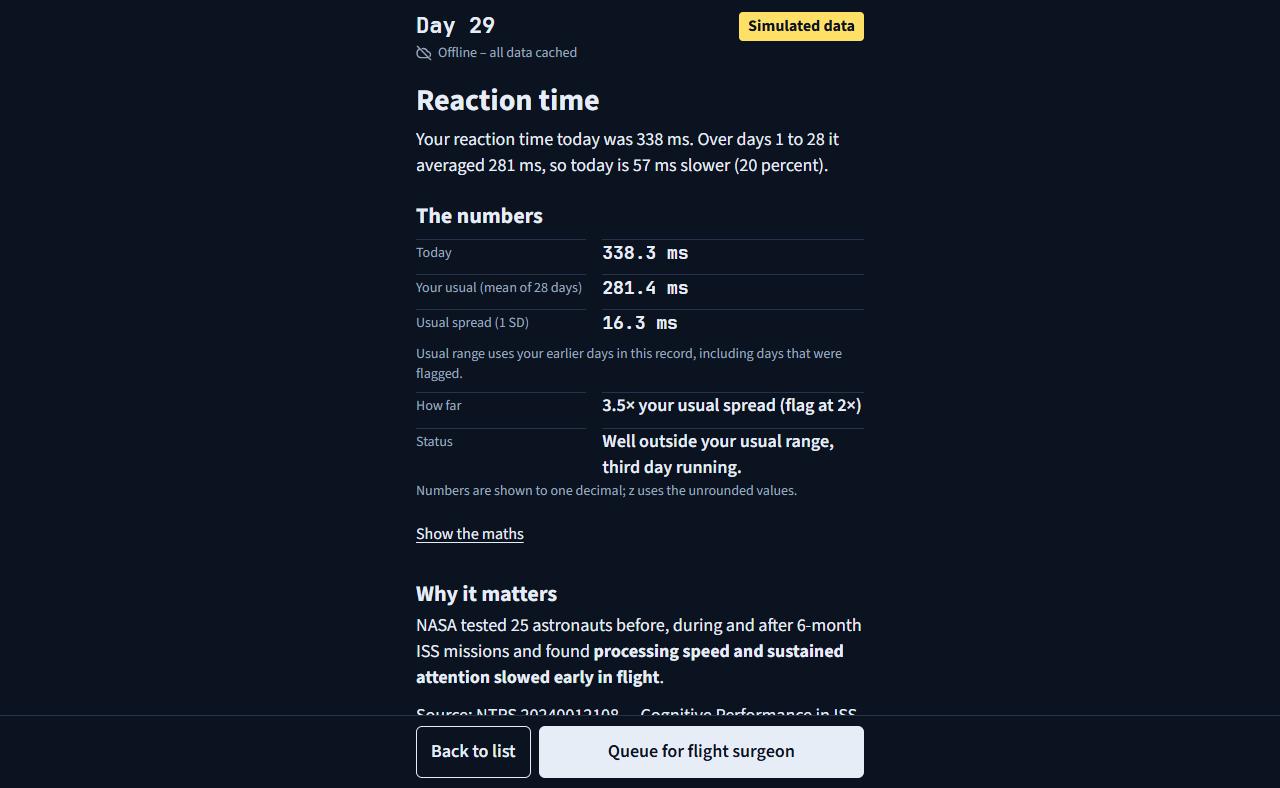
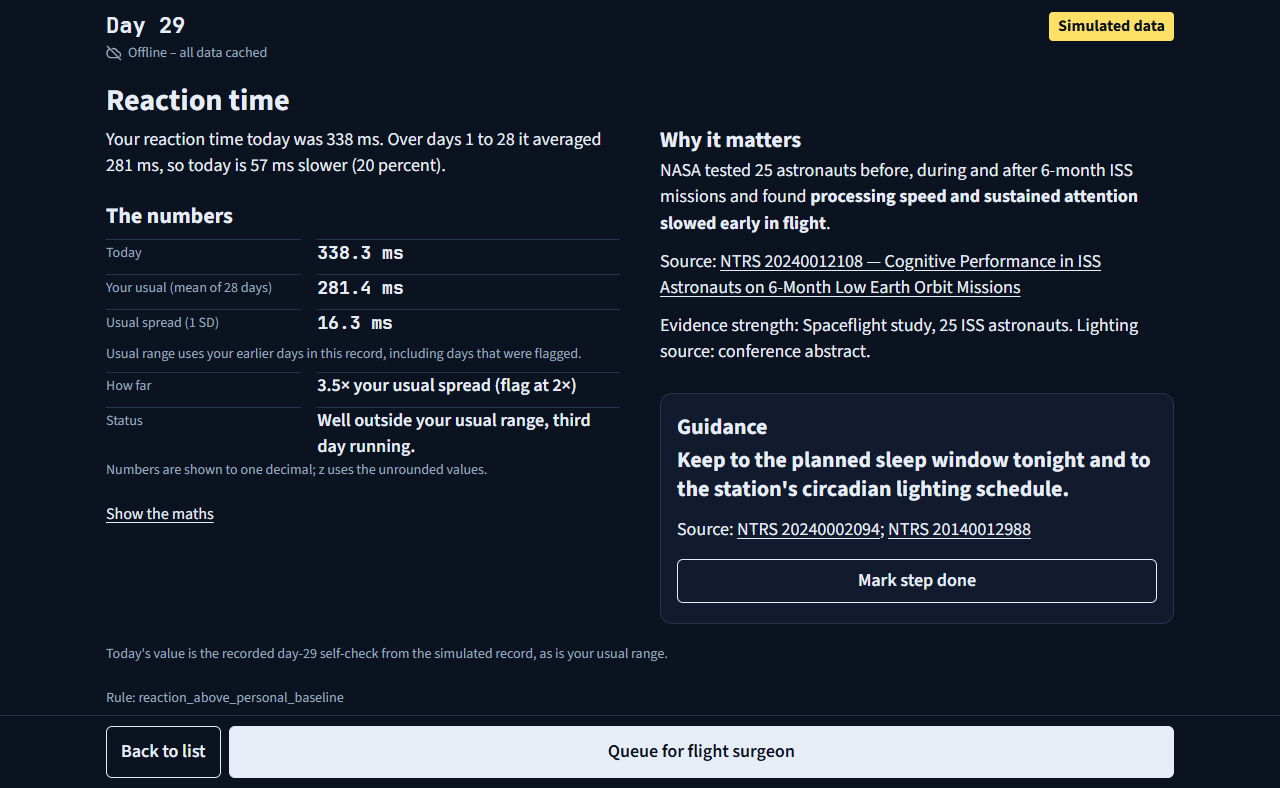
Responsive layout: tablet and laptop fill the screen; phone unchanged

diff --git a/index.html b/index.html
@@ -273,6 +273,23 @@ fieldset { border: 0; padding: 0; margin: 28px 0 0; min-width: 0; }
 
 /* Flight surgeon view (PLAN item 6, design L1): the one screen that uses a laptop's width; one column on a phone. */
 .wide .top, .wide main { max-width: 1360px; }
+/* Tablet and laptop (Hrishin, 13 Nov 2026): the same screens fill the width. Nothing here applies under 700 px,
+   so the phone layout is unchanged. The wrappers (.check-cols, .charts, .ev-cols) are plain blocks on a phone. */
+@media (min-width: 700px) {
+  .top, main { max-width: 900px; }
+  .bar-inner { max-width: 868px; }
+  .check-cols { display: grid; grid-template-columns: minmax(0, 1fr) minmax(0, 1fr); gap: 0 32px; align-items: start; }
+  .charts { display: grid; grid-template-columns: repeat(2, minmax(0, 1fr)); gap: 20px 24px; margin-top: 20px; }
+  .charts .channel { margin-top: 0; }
+  .charts .channel.bottom { grid-column: 1 / -1; } /* reaction time, alone on the last row: full row */
+}
+@media (min-width: 1100px) {
+  .top, main { max-width: 1100px; }
+  .bar-inner { max-width: 1068px; }
+  .charts { grid-template-columns: repeat(3, minmax(0, 1fr)); }
+  .ev-cols { display: grid; grid-template-columns: minmax(0, 1fr) minmax(0, 1fr); gap: 0 40px; align-items: start; }
+  .ev-b > h2:first-child { margin-top: 0; } /* both columns start on the same line */
+}
 #crew h1 { font-size: 36px; }
 .crew-grid { display: grid; gap: 24px; margin-top: 20px; }
 .crew-rows { list-style: none; padding: 0; margin: 0; }
@@ -332,6 +349,8 @@ fieldset { border: 0; padding: 0; margin: 28px 0 0; min-width: 0; }
   <h1 id="today-title" tabindex="-1">Morning check</h1>
   <p>Three short parts. Each answer is compared only with your own past days, not with anyone else's.</p>
 
+  <div class="check-cols">
+  <div class="check-rt">
   <h2>Reaction time</h2>
   <p class="meta how">How to measure: tap the field to start, then tap as soon as the dark circle appears, 1 to 3 seconds later. Five rounds; a tap before the circle or within 0.1 seconds of it repeats the round. The middle time of the five counts.</p>
   <button id="rt-field" class="rt" type="button" aria-describedby="rt-status">
@@ -342,6 +361,8 @@ fieldset { border: 0; padding: 0; margin: 28px 0 0; min-width: 0; }
   <button id="rt-recorded" class="secondary" type="button" disabled>Use recorded day-29 self-check (simulated)</button>
   <p id="rt-status" class="meta num" aria-live="polite">Round 1 of 5</p>
   <button id="rt-again" class="text-button" type="button" hidden>Run the test again</button>
+  </div>
+  <div class="check-rest">
 
   <h2>Sleep and mood</h2>
   <label class="q" for="sleep">How long did you sleep last night?</label>
@@ -390,6 +411,8 @@ fieldset { border: 0; padding: 0; margin: 28px 0 0; min-width: 0; }
       <input type="radio" id="vision-blurred" name="vision" value="blurred"><label for="vision-blurred">Blurred</label>
     </div>
   </fieldset>
+  </div>
+  </div>
 
   <p id="missing" class="missing" role="alert"></p>
   <button id="save" class="primary" type="button" disabled>Save and compare</button>
@@ -407,6 +430,7 @@ fieldset { border: 0; padding: 0; margin: 28px 0 0; min-width: 0; }
     <button type="button" data-range="7" aria-pressed="false">7 days</button>
     <button type="button" data-range="0" aria-pressed="true">30 days</button>
   </div>
+  <div class="charts">
   <div class="channel" data-signal="heart_rate_bpm">
     <div class="channel-head"><span>Heart rate</span><span class="val"></span></div>
     <div class="plot"><canvas role="img"></canvas></div>
@@ -434,6 +458,7 @@ fieldset { border: 0; padding: 0; margin: 28px 0 0; min-width: 0; }
   <div class="channel bottom" data-signal="reaction_ms">
     <div class="channel-head"><span>Reaction time</span><span class="val"></span></div>
     <div class="plot"><canvas role="img"></canvas></div>
+  </div>
   </div>
   <div id="radiation" class="radiation">
     <h2>Real data: NASA MSL RAD and NOAA GOES</h2>
@@ -564,6 +589,8 @@ fieldset { border: 0; padding: 0; margin: 28px 0 0; min-width: 0; }
   <p id="ev-who" class="days-line" hidden></p>
   <p id="ev-replay" class="days-line" hidden></p>
   <h1 id="ev-title" tabindex="-1"></h1>
+  <div class="ev-cols">
+  <div class="ev-a">
   <p id="ev-plain"></p>
   <p id="ev-note" hidden></p>
   <h2>The numbers</h2>
@@ -571,6 +598,8 @@ fieldset { border: 0; padding: 0; margin: 28px 0 0; min-width: 0; }
   <p id="ev-rounding" class="meta">Numbers are shown to one decimal; z uses the unrounded values.</p>
   <div id="ev-extra" hidden></div>
   <button id="ev-maths" class="text-button maths-link" type="button">Show the maths</button>
+  </div>
+  <div class="ev-b">
   <h2>Why it matters</h2>
   <p id="ev-words"></p>
   <p id="ev-study" class="cite"></p>
@@ -583,6 +612,8 @@ fieldset { border: 0; padding: 0; margin: 28px 0 0; min-width: 0; }
     <button id="ev-mark" class="secondary" type="button">Mark step done</button>
     <p id="ev-mark-line" aria-live="polite" hidden></p>
     <p id="ev-mark-note" class="meta" hidden>Not saved: this browser blocks storage, so this mark is kept for this visit only.</p>
+  </div>
+  </div>
   </div>
   <p id="ev-source" class="meta"></p>
   <p id="ev-rule" class="meta"></p>
